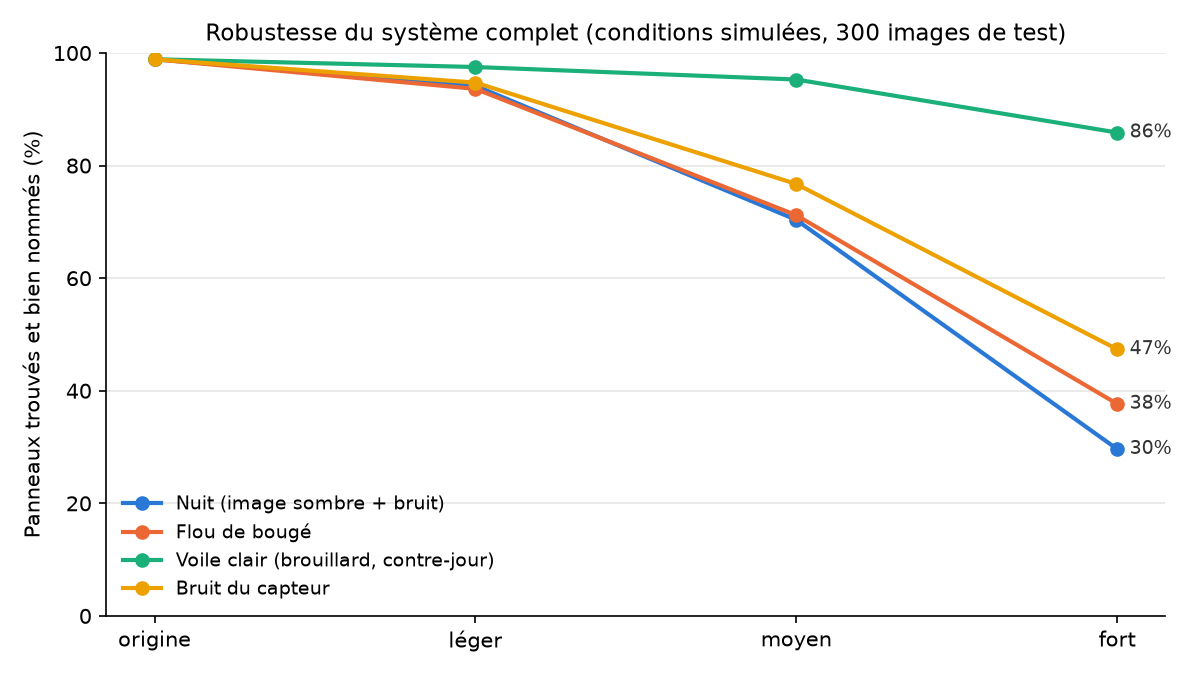
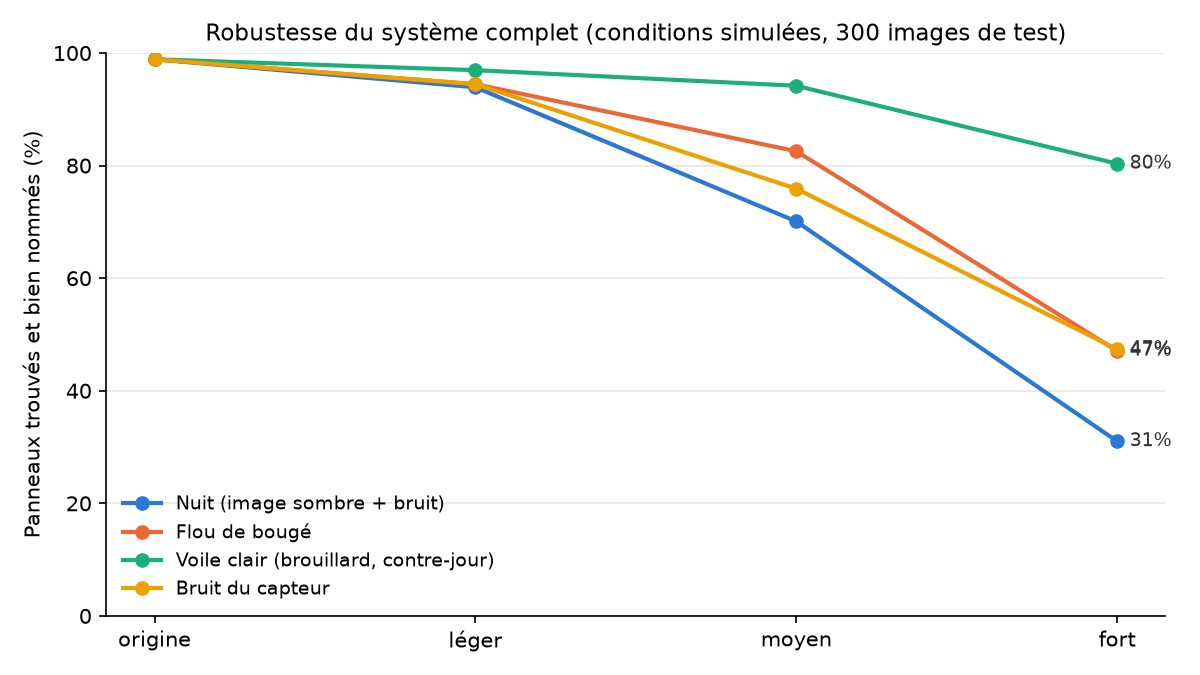
feat: CNN v2 trained with motion blur (blur wrong names 12->2 and 18->8, clean results unchanged)

diff --git a/src/roadsigns/classification/data.py b/src/roadsigns/classification/data.py
@@ -75,25 +75,65 @@ def load_crops(samples: list[GTSRBSample], cache_path: Path | None = None) -> tu
     return images, labels
 
 
-def train_augmentation() -> v2.Compose:
+class RandomMotionBlur(torch.nn.Module):
+    """Directional (motion) blur on a uint8 3xHxW tensor, with probability ``p``.
+
+    The blur length is drawn in ``lengths`` (pixels at 48x48) and the direction mostly
+    horizontal (angle in ``max_angle`` degrees around it), like a car moving or turning.
+    Added after the robustness test showed motion blur is the only condition that makes
+    the CNN give WRONG names.
+    """
+
+    def __init__(self, p: float = 0.3, lengths: tuple[int, int] = (3, 11), max_angle: float = 20.0) -> None:
+        super().__init__()
+        self.p, self.lengths, self.max_angle = p, lengths, max_angle
+
+    def forward(self, t: torch.Tensor) -> torch.Tensor:
+        if torch.rand(1).item() >= self.p:
+            return t
+        length = int(torch.randint(self.lengths[0], self.lengths[1] + 1, (1,)).item())
+        angle = float((torch.rand(1).item() * 2 - 1) * self.max_angle)
+        kernel = motion_blur_kernel(length, angle)
+        img = t.permute(1, 2, 0).numpy()
+        out = cv2.filter2D(img, -1, kernel, borderType=cv2.BORDER_REFLECT)
+        return torch.from_numpy(np.ascontiguousarray(out)).permute(2, 0, 1)
+
+
+def motion_blur_kernel(length: int, angle_deg: float) -> np.ndarray:
+    """Normalised line kernel of ``length`` pixels at ``angle_deg`` (0 = horizontal)."""
+    length = max(1, int(length))
+    kernel = np.zeros((length, length), np.float32)
+    kernel[length // 2, :] = 1.0
+    if angle_deg:
+        rot = cv2.getRotationMatrix2D(((length - 1) / 2, (length - 1) / 2), angle_deg, 1.0)
+        kernel = cv2.warpAffine(kernel, rot, (length, length))
+    return kernel / max(kernel.sum(), 1e-6)
+
+
+def train_augmentation(motion_blur: bool = False) -> v2.Compose:
     """Realistic variations only. No horizontal/vertical flip: it would change a sign's
-    meaning ("turn left" <-> "turn right") or produce signs that do not exist."""
-    return v2.Compose([
+    meaning ("turn left" <-> "turn right") or produce signs that do not exist.
+    ``motion_blur`` adds RandomMotionBlur (classifier v2, see scripts/train_classifier.py)."""
+    steps = [
         v2.RandomAffine(degrees=10, translate=(0.08, 0.08), scale=(0.9, 1.1)),  # imprecise detector boxes, viewpoint
         v2.ColorJitter(brightness=0.4, contrast=0.4, saturation=0.3, hue=0.02),  # lighting, weather
-        v2.RandomApply([v2.GaussianBlur(kernel_size=3, sigma=(0.1, 1.2))], p=0.2),  # motion / focus blur
-    ])
+        v2.RandomApply([v2.GaussianBlur(kernel_size=3, sigma=(0.1, 1.2))], p=0.2),  # focus blur
+    ]
+    if motion_blur:
+        steps.append(RandomMotionBlur())
+    return v2.Compose(steps)
 
 
 class SignCropDataset(Dataset):
     """In-memory dataset of 48x48 RGB crops."""
 
-    def __init__(self, images: np.ndarray, labels: np.ndarray, augment: bool = False) -> None:
+    def __init__(self, images: np.ndarray, labels: np.ndarray, augment: bool = False,
+                 motion_blur: bool = False) -> None:
         if len(images) != len(labels):
             raise ValueError("images and labels must have the same length")
         self.images = images
         self.labels = labels
-        self.augment = train_augmentation() if augment else None
+        self.augment = train_augmentation(motion_blur) if augment else None
 
     def __len__(self) -> int:
         return len(self.labels)

diff --git a/scripts/train_classifier.py b/scripts/train_classifier.py
@@ -15,6 +15,8 @@ Outputs:
 Usage (repository root, venv active):
     python scripts/train_classifier.py                  # GPU if available
     python scripts/train_classifier.py --epochs 3       # quick check
+    # classifier v2: same training + motion-blur augmentation, saved under another name
+    python scripts/train_classifier.py --motion-blur --weights-out models/weights/classifier_blur.pt --out results/classifier_blur
 """
 
 from __future__ import annotations
@@ -62,6 +64,8 @@ def parse_args() -> argparse.Namespace:
     p.add_argument("--seed", type=int, default=0)
     p.add_argument("--out", type=Path, default=REPO_ROOT / "results/classifier")
     p.add_argument("--weights-out", type=Path, default=REPO_ROOT / "models/weights/classifier_best.pt")
+    p.add_argument("--motion-blur", action="store_true",
+                   help="add random motion blur to the training crops (robust to camera / car motion)")
     return p.parse_args()
 
 
@@ -191,7 +195,8 @@ def main() -> int:
 
     pin = device.type == "cuda"
     loaders = {
-        "train": DataLoader(SignCropDataset(images[idx["train"]], labels[idx["train"]], augment=True),
+        "train": DataLoader(SignCropDataset(images[idx["train"]], labels[idx["train"]], augment=True,
+                                            motion_blur=args.motion_blur),
                             batch_size=args.batch_size, shuffle=True, num_workers=args.workers, pin_memory=pin),
         "val": DataLoader(SignCropDataset(images[idx["val"]], labels[idx["val"]]),
                           batch_size=256, num_workers=args.workers, pin_memory=pin),
@@ -256,6 +261,7 @@ def main() -> int:
         "parameters": count_parameters(model),
         "split": "by track, 70/15/15 per class, seed %d" % args.seed,
         "images": {k: int(len(v)) for k, v in idx.items()},
+        "motion_blur_augmentation": bool(args.motion_blur),
         "epochs": args.epochs, "best_epoch": best_epoch, "best_val_acc": round(best_val, 4),
         "test_accuracy": round(test_acc, 4), "test_macro_f1": round(macro_f1, 4),
         "test_errors": int((y != pred).sum()),

diff --git a/app/components/results.py b/app/components/results.py
@@ -17,12 +17,15 @@ WEIGHTS = REPO_ROOT / "models" / "weights"
 DATA_RAW = REPO_ROOT / "data" / "raw"
 
 DETECTOR_RUN = "v2_1280"
+CLASSIFIER_FILE = "classifier_blur.pt"   # CNN v2, trained with motion-blur augmentation
 
 # Where each result lives, and the command that creates it.
 SOURCES = {
     "baseline": (RESULTS / "baseline", "python scripts/baseline_pretrained.py"),
     "detector": (RESULTS / "detector" / DETECTOR_RUN, f"python scripts/train_detector.py --name {DETECTOR_RUN}"),
-    "classifier": (RESULTS / "classifier", "python scripts/train_classifier.py"),
+    "classifier": (RESULTS / "classifier_blur",
+                   "python scripts/train_classifier.py --motion-blur --weights-out models/weights/classifier_blur.pt "
+                   "--out results/classifier_blur"),
     "classifier_on_gtsdb": (RESULTS / "classifier_on_gtsdb", "python scripts/evaluate_classifier_gtsdb.py"),
     "dataset": (RESULTS / "dataset" / "super", "python scripts/prepare_gtsdb.py"),
     "exploration": (RESULTS / "exploration", "notebooks/01_gtsdb_exploration.ipynb (Run All)"),
@@ -62,7 +65,7 @@ def weights_status() -> dict[str, Path | None]:
     """Which trained models are present on this computer (weights are not in Git)."""
     files = {
         "detector": WEIGHTS / f"detector_{DETECTOR_RUN}.pt",
-        "classifier": WEIGHTS / "classifier_best.pt",
+        "classifier": WEIGHTS / CLASSIFIER_FILE,
     }
     return {name: (p if p.is_file() else None) for name, p in files.items()}
 

diff --git a/tests/test_classifier.py b/tests/test_classifier.py
@@ -62,3 +62,31 @@ def test_dataset_returns_normalised_tensors():
     ds = SignCropDataset(imgs, np.arange(4), augment=True)
     x, y = ds[2]
     assert x.shape == (3, INPUT_SIZE, INPUT_SIZE) and x.dtype == torch.float32 and y == 2
+
+
+def test_motion_blur_kernel_is_normalised_and_horizontal():
+    from roadsigns.classification.data import motion_blur_kernel
+    k = motion_blur_kernel(7, 0)
+    assert k.shape == (7, 7) and abs(k.sum() - 1) < 1e-5
+    assert k[3].sum() > 0.99  # all the weight on the middle row
+    assert abs(motion_blur_kernel(7, 20).sum() - 1) < 1e-5
+
+
+def test_random_motion_blur_keeps_type_and_blurs():
+    import numpy as np
+    import torch
+    from roadsigns.classification.data import RandomMotionBlur
+    t = torch.from_numpy(np.random.default_rng(0).integers(0, 255, (3, 48, 48), dtype=np.uint8))
+    out = RandomMotionBlur(p=1.0, lengths=(9, 9), max_angle=0)(t)
+    assert out.dtype == torch.uint8 and out.shape == t.shape
+    sharp = lambda x: x.float().diff(dim=2).abs().mean()  # noqa: E731
+    assert sharp(out) < sharp(t) / 2
+    assert torch.equal(RandomMotionBlur(p=0.0)(t), t)
+
+
+def test_dataset_with_motion_blur_augmentation():
+    import numpy as np
+    from roadsigns.classification.data import SignCropDataset
+    ds = SignCropDataset(np.zeros((2, 48, 48, 3), np.uint8), np.array([1, 2]), augment=True, motion_blur=True)
+    x, y = ds[0]
+    assert tuple(x.shape) == (3, 48, 48) and y == 1

diff --git a/scripts/evaluate_classifier_gtsdb.py b/scripts/evaluate_classifier_gtsdb.py
@@ -53,7 +53,7 @@ SIZE_BINS = ((0, 32, "< 32 px"), (32, 48, "32-48 px"), (48, 64, "48-64 px"), (64
 def parse_args() -> argparse.Namespace:
     p = argparse.ArgumentParser(description=__doc__, formatter_class=argparse.RawDescriptionHelpFormatter)
     p.add_argument("--gtsdb-root", type=Path, default=REPO_ROOT / "data/raw/FullIJCNN2013")
-    p.add_argument("--weights", type=Path, default=REPO_ROOT / "models/weights/classifier_best.pt")
+    p.add_argument("--weights", type=Path, default=REPO_ROOT / "models/weights/classifier_blur.pt")
     p.add_argument("--jitter", type=float, default=0.15, help="max relative shift/resize of jittered boxes")
     p.add_argument("--device", default="auto")
     p.add_argument("--seed", type=int, default=0)

diff --git a/app/components/detection.py b/app/components/detection.py
@@ -24,7 +24,7 @@ FIRST_TEST_IMAGE = 600  # images 00600-00899 = official GTSDB test set (never us
 def missing_weights() -> list[str]:
     """Names of the weight files missing on this computer (empty list = ready)."""
     status = R.weights_status()
-    files = {"detector": f"detector_{R.DETECTOR_RUN}.pt", "classifier": "classifier_best.pt"}
+    files = {"detector": f"detector_{R.DETECTOR_RUN}.pt", "classifier": R.CLASSIFIER_FILE}
     return [f"models/weights/{files[k]}" for k, path in status.items() if path is None]
 
 

diff --git a/src/roadsigns/pipeline.py b/src/roadsigns/pipeline.py
@@ -34,7 +34,7 @@ from roadsigns.evaluation.matching import iou
 
 REPO_ROOT = Path(__file__).resolve().parents[2]
 DEFAULT_DETECTOR = REPO_ROOT / "models" / "weights" / "detector_v2_1280.pt"  # v2: trained at 1280 px
-DEFAULT_CLASSIFIER = REPO_ROOT / "models" / "weights" / "classifier_best.pt"
+DEFAULT_CLASSIFIER = REPO_ROOT / "models" / "weights" / "classifier_blur.pt"  # v2: trained with motion blur
 
 # BGR colours per super-category (same palette as the slides and the app).
 SUPER_COLORS_BGR = {

diff --git a/README.md b/README.md
@@ -31,12 +31,13 @@ l'entraînement.
 | Élément | Mesure | Résultat | Fichier |
 |---|---|---|---|
 | YOLO générique (COCO, sans ré-entraînement) | panneaux trouvés | 10,4 % | `results/baseline/` |
-| Notre CNN sur GTSRB (5 850 images de test) | accuracy, 43 classes | 99,69 % | `results/classifier/` |
-| Notre CNN sur les panneaux découpés de GTSDB | accuracy | 99,59 % | `results/classifier_on_gtsdb/` |
+| CNN v1 sur GTSRB (5 850 images de test) | accuracy, 43 classes | 99,69 % | `results/classifier/` |
+| **CNN v2** (entraîné avec flou de bougé) sur GTSRB | accuracy, 43 classes | **99,78 %** | `results/classifier_blur/` |
+| CNN v2 sur les panneaux découpés de GTSDB | accuracy (boîtes exactes / décalées de ±15 %) | 99,67 % / 98,68 % | `results/classifier_on_gtsdb/` |
 | Détecteur v1 (1024 px) | rappel / mAP50 | 95,3 % / 97,7 % | `results/detector/v1_quick/` |
 | Détecteur v2 (1280 px) | rappel / mAP50 | 97,4 % / 98,9 % | `results/detector/v2_1280/` |
 | Système complet avec détecteur v1 | panneaux trouvés **et** bien nommés | 98,3 % (355/361), 21 fausses alarmes | historique Git de `results/pipeline/` |
-| **Système complet** (détecteur v2 + CNN) | panneaux trouvés **et** bien nommés | **98,9 %** (357/361) | `results/pipeline/` |
+| **Système complet** (détecteur v2 + CNN v2) | panneaux trouvés **et** bien nommés | **98,9 %** (357/361) | `results/pipeline/` |
 | Système complet (v2) | mauvais noms | **0** | `results/pipeline/` |
 | Système complet (v2) | fausses alarmes | 25 (93,5 % des boîtes sont des panneaux annotés) | `results/pipeline/` |
 
@@ -49,7 +50,31 @@ l'entraînement.
   de 355), surtout des petits (moins de 32 px : 96,9 % au lieu de 93,8 %), au prix de 4 fausses
   alarmes de plus (25 au lieu de 21).
 - Une partie des « fausses alarmes » sont de vrais panneaux qui ne font pas partie des 43 classes
-  annotées (arrêt interdit, arrêt de bus…). Le chiffre de 94,4 % est donc prudent.
+  annotées (arrêt interdit, arrêt de bus…). Le chiffre de 93,5 % est donc prudent.
+- Le CNN v2 a remplacé le CNN v1 parce qu'il remplissait les 3 conditions fixées avant l'essai :
+  au moins aussi bon sur GTSRB, même résultat de bout en bout sur les images nettes (98,9 %,
+  0 mauvais nom), et moins de mauvais noms sous le flou (voir ci-dessous). Sur les boîtes décalées
+  de ±15 %, il est un peu moins bon que v1 (98,68 % au lieu de 99,34 %).
+
+### Robustesse (conditions simulées)
+
+Les 300 images de test sont dégradées artificiellement (`scripts/evaluate_robustness.py`) : ce sont
+des **simulations**, pas de vraies photos de nuit ou à contre-jour. Pourcentage de panneaux trouvés
+**et** bien nommés, système complet (détecteur v2 + CNN v2) :
+
+| Condition simulée | Léger | Moyen | Fort | Mauvais noms (léger / moyen / fort) |
+|---|---|---|---|---|
+| Images d'origine | 98,9 % | | | 0 |
+| Voile clair (brouillard, contre-jour) | 97,0 % | 94,2 % | 80,3 % | 0 / 0 / 0 |
+| Bruit du capteur | 94,5 % | 75,9 % | 47,4 % | 0 / 0 / 0 |
+| Flou de bougé | 94,5 % | 82,5 % | 47,1 % | 0 / 2 / 8 |
+| Nuit (image sombre + bruit) | 93,9 % | 70,1 % | 31,0 % | 0 / 0 / 1 |
+
+Avec le CNN v1, le flou de bougé était la seule condition qui produisait de vrais mauvais noms
+(12 au niveau moyen, 18 au niveau fort). Entraîner le CNN avec du flou de bougé simulé les a réduits
+à 2 et 8, sans rien perdre sur les images nettes. En contrepartie, avec le voile clair fort, le CNN v2
+affiche plus souvent « (?) » (80,3 % au lieu de 85,9 %, toujours sans mauvais nom). Détails, graphique
+et exemples : `results/robustness/` et l'onglet « Robustesse » de la page Évaluation.
 
 ## Installation (Windows, PowerShell)
 
@@ -88,7 +113,7 @@ Ils ne sont **pas dans Git** (trop lourds, licences propres).
   `data/raw/`.
 - **Poids** : récupérer sur le Google Drive de l'équipe et placer dans `models/weights/` :
   - `detector_v2_1280.pt` (détecteur utilisé par l'application) ;
-  - `classifier_best.pt` (CNN).
+  - `classifier_blur.pt` (CNN v2 utilisé par l'application).
 
 ## Lancer l'application
 
@@ -114,12 +139,14 @@ poids manque.
 
 ```powershell
 python scripts\baseline_pretrained.py                        # YOLO COCO sans ré-entraînement
-python scripts\train_classifier.py                           # CNN sur GTSRB
-python scripts\evaluate_classifier_gtsdb.py                  # CNN sur les panneaux de GTSDB
+python scripts\train_classifier.py                           # CNN v1 sur GTSRB
+python scripts\train_classifier.py --motion-blur --weights-out models\weights\classifier_blur.pt --out results\classifier_blur   # CNN v2
+python scripts\evaluate_classifier_gtsdb.py                  # CNN v2 sur les panneaux de GTSDB
 python scripts\prepare_gtsdb.py                              # GTSDB -> format YOLO (510 / 90 / 300)
 python scripts\train_detector.py --name v1_quick --epochs 25 # détecteur v1 (GTX 1650 : sans --amp)
 python scripts\train_detector.py --name v2_1280 --imgsz 1280 --batch 4 --amp --epochs 100
 python scripts\evaluate_pipeline.py                          # système complet
+python scripts\evaluate_robustness.py                        # robustesse (conditions simulées)
 ```
 
 Les essais rapides vont dans `results/tmp/`, qui n'est pas suivi par Git.
@@ -148,7 +175,9 @@ models/              poids (en local, hors Git)
 - En vidéo, le suivi d'un panneau d'une image à l'autre se fait seulement par la position des boîtes.
   Un panneau caché un moment peut recevoir deux numéros. Faute de vidéos annotées, ce suivi est
   vérifié par des tests et à l'œil, pas mesuré.
-- Pas encore de mesure en conditions difficiles (nuit, contre-jour, flou).
+- Les conditions difficiles (nuit, flou, brouillard, bruit) sont seulement **simulées** sur les images
+  de test : il n'y a pas de vraies photos de nuit annotées. La nuit forte et le bruit fort font surtout
+  rater des panneaux (31 % et 47 % de réussite au niveau fort).
 
 ## Équipe
 
